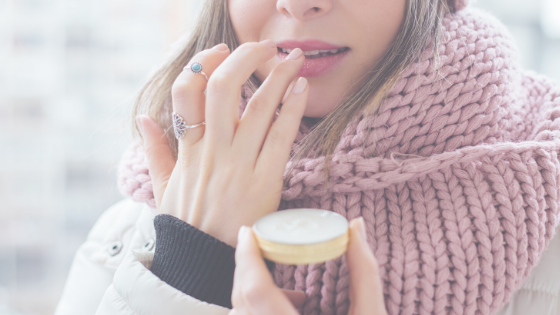
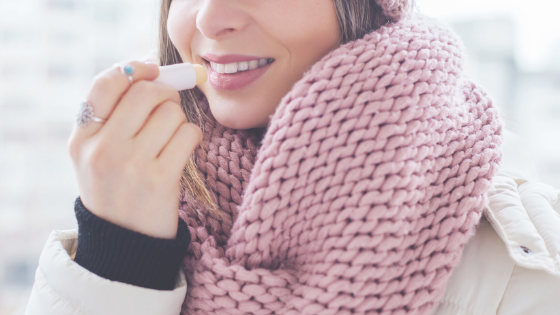
change file names, new post

diff --git a/themes/myskinin-blog/layouts/about/list.html b/themes/myskinin-blog/layouts/about/list.html
@@ -6,7 +6,7 @@
       <div class="col-lg-12">
         <h2 class="mb-4">{{.Title }}</h2>
         <img src="{{.Params.Image | absURL }}" alt="{{.Site.Params.author}}" class="img-fluid w-100 mb-4">
-        <h3 class="font-weight-light">Hello, I’m <span class="font-weight-bold">{{.Site.Params.author}}</span></h3>
+        <h3 class="font-weight-light">Hello, we are <span class="font-weight-bold">{{.Site.Params.author}}</span></h3>
         {{ .Content }}
       </div>
     </div>

diff --git a/content/dry-winter-lips.md b/content/dry-winter-lips.md
@@ -1,0 +1,60 @@
+---
+title: Dry Lips In Winter?
+date: 2019-05-14T08:46:10.000+00:00
+description: This is meta description
+type: featured
+image: images/featured-post/dry-winter-lips.png
+categories:
+- Lips
+tags:
+- Dry lips
+- chapped lips
+- winter lips
+
+---
+Dry winter lips are an inevitable companion to colder seasons. Knowing how to get rid of chapped lips will help you stay more comfortable in this weather. We’ve tested many of the diy remedies and products available on the market to discover some of the key things that will get your lips back into shape fast, including two key factors. Keep reading. 
+Knowing how to cure chapped lips fast is actually only half of the battle. Dry winter lips are only a symptom and it’s important to understand why do lips get dry. We will share all of this information with you so that you are well armed to tackle and even prevent the dryness, cracks and tightness on the lips that comes with cold weather. 
+
+<h2>Why do lips get dry?
+
+<div class="imgbox"> <img class="full-width" src='/images/featured-post/get-rid-of-chapped-lips-fast3.png' alt="why do lips get dry"> </div>
+
+Your lips don’t have oil glands so they don’t naturally lubricate themselves like the majority of the rest of the skin on your body. They are also almost always exposed to the elements because they are not covered by clothing, hair, etc. Wind and cold, dry air  that come with the winter months only make the exposure more damaging. 
+However, the good news is that of all the skin on your body, your lips have one of the highest cell turnover rates. That means that when the skin on your lips does get dry, chapped, damaged, etc., it is among the fastest to recover. 
+Therefore, our methods on how to get rid of dry winter lips should work quickly. 
+However, the ultimate takeaway here is that you need to nourish, protect and replenish your lips. 
+
+<h2>How to get rid of dry lips fast
+
+<div class="imgbox"> <img class="full-width" src='/images/featured-post/dry-winter-lips2.png' alt="dry winter lips"> </div>
+
+To get rid of dry lips fast, you will need a greasy lip balm that sticks to your lips. Balms containing ingredients like petroleum jelly, coconut oil, beeswax, almond oil and vitamin E tend to work well. Avoid ingredients that can irritate sensitive skin such as: eucalyptus oil, camphor and menthol.
+
+If possible, try to check the texture of the balm before purchasing it. If it disappears quickly, is runny and doesn’t have much stickiness to it, it won’t be enough to help with dry winter lips. 
+Our favourite is [Lanolips Original Ointment](https://amzn.to/36ZmlWh). It’s so moisturizing that even bleeding, cracked lips felt instantly soothed. It’s sticking power meant that we didn’t need to apply it to often. [Weleda’s Skin Food Lip Butter](https://amzn.to/33JnS0u) not only provided intensive nourishment for our dry winter lips, but it also created a barrier to protect them from the elements until they healed properly. 
+
+<h2> Consistency is key
+
+<div class="imgbox"> <img class="full-width" src='/images/featured-post/get-rid-of-chapped-lips-fast2.png' alt="how to get rid of chapped lips"> </div>
+
+Because consistent application is one of the most important things when it comes to  We recommend getting a couple of tubes of your favourite lip balm to keep with you all the time. Originally, we kept our lip balm in our handbag and would get too lazy to get it out to apply. We started keeping it in our pocket, but then that meant changing pockets and/or losing the balm altogether. So now we keep a couple around to ensure that we always have a layer of balm on our dry winter lips. 
+
+<h2> Rescue Lip Scrub
+
+A lip scrub sloughs dry, dead skin of your lips, but it must be used with caution on dry winter lips.
+
+If your lips are bleeding or cracked, do not use a lip scrub. Otherwise, we recommend a gentle scrub from non acidic ingredients. So you don’t want salt, sugar or any acidic scrub. For dry winter lips, use only a scrub where the scrub agents are made of natural ingredients such as walnuts, cornmeal, etc. The reason for this is that you want to gently encourage the dry, dead skin to come off your lips, but you don’t want to dry them or aggravate them further with acidic ingredients. We love [Baxter’s Cornmeal and Walnut Scrub](https://amzn.to/2QiUYjX) because it gently removed the dry, dead skin from our lips and did not aggravate them. While it’s intended to be used as a face scrub, we use it only as a lip scrub. 
+
+<h2>Overnight lip mask
+
+<div class="imgbox"> <img class="full-width" src='/images/featured-post/get-rid-of-chapped-lips-fast.png' alt="how to cure dry winte lips"> </div>
+
+Our bodies repair themselves more at night and our lips are no exception. So why not take advantage of this time when our bodies reparative powers are amplified and put an intensive mask on your lips before bed time? A couple of nights with a lip mask made a big difference for us.
+
+Some of our team still use butter on our dry lips before bedtime. But somehow, the taste of butter is less appealing and there are more powerful remedies out there. The best sleep mask we have found is an old classic by Laneige - [Lip Berry Sleep Mask](https://amzn.to/2NOMXkY). It goes on quick thick, but when you wake up, you get more dewy, softer and less chapped lips. It also has a nice applicator, which is much more hygenic. 
+
+<h2>Avoid at all costs
+
+<div class="imgbox"> <img class="full-width" src='/images/featured-post/get-rid-of-chapped-lips-fast4.png' alt="how to get rid of chapped lips"> </div>
+
+As tempting as it may be to peel the drier skin off your lips, avoid it all costs. This will only perpetuate the cycle. Avoid touching your lips and avoid using a potted lip balm. Use one in a tube in a stick form. Potted lip balms, particularly the kind where you have to use your finger, accumulate dirt and bacteria very quickly. In fact, they become a breeding ground for it with skin cells, germs, etc. 

diff --git a/content/How-to-use-body-scrub.md b/content/How-to-use-body-scrub.md
@@ -24,13 +24,13 @@ The key to understanding how to use an exfoliating body scrub effectively is cho
 
 > The key to using body scrub is preparing your skin. The main idea is to soften the surface of your skin so that the body scrub can achieve maximum sloughing of dead skin cells. Preparation can be done in a number of ways and depends on the amount of time you have and how much you want to fuss with it. We will give you a couple of options.
 
-![How to use a body scrub - preparing your skin](../images/body-scrub/How-to-use-a-body-scrub2.png "How to prepare your skin for a body scrub")
+<div class="imgbox"> <img class="full-width" src='/images/body-scrub/How-to-use-a-body-scrub2.png' alt="how to use a body scrub"> </div>
 
 <h3> Option 1 - How to apply a body scrub when you have more time and want a spa experience at home
 
 This option should take around 30 minutes, but you can also adjust the time to suit your needs. 
 
-![How to apply a body scrub like a spa](../images/body-scrub/How-to-use-a-body-scrub3.png "How to apply a body scrub like a spa")
+<div class="imgbox"> <img class="full-width" src='/images/body-scrub/How-to-use-a-body-scrub3.png' alt="how to apply a body scrub"> </div>
 
 Ideally, you would be able to steam your skin at a sauna. However, a sauna can be easily replicated at home by running the shower on a hot setting for about 5 minutes. Always point the hot water away from yourself. Depending on the size of your bathroom, it should start to fill up with steam fairly quickly. If you have a cabin shower, you can step inside and put the water on as hot as you can without burning yourself. Again, direct the water away from yourself and be very careful to avoid burns. Your skin should not get wet. It’s about steaming. Make sure the ventilation is off and that the main door and windows are shut.  If at any time you start to feel dizzy or unwell, immediately open the main door, windows, etc. to let the steam out. Always keep a bottle of cold water nearby and sip it while the steam is coming and during the steaming process.
 
@@ -42,9 +42,9 @@ Finally, follow all steps from Option 2 (below). By the time you finish, you wil
 
 <h3>Option 2: How to apply a body scrub when you have a few minutes
 
-This option is really the bare minimum that should be done for body scrub application. It should take 5-10 minutes. 
+This option is really the bare minimum that should be done for body scrub application. It should take 5-10 minutes.
 
-![How to use a body scrub quickly](../images/body-scrub/How-to-use-a-body-scrub4.png "How to apply a body scrub quickly")
+<div class="imgbox"> <img class="full-width" src='/images/body-scrub/How-to-use-a-body-scrub4.png' alt="how to use a body scrub"> </div>
 
 While standing in the shower/bath and BEFORE you turn on the water, run shower oil all over your skin. It is absolutely imperative that you do this before you get your skin wet because the oil will stick to your skin better and will have a fantastic softening effect.  Spread the oil generously and be sure to cover every part that you want exfoliated, especially tougher areas like your elbows and palms. If you are also exfoliating your feet, it is advisable to use a shower stool or to sit on the floor of your shower/bathtub. Be very careful not to slip - oil is slippery.  It's best to use a shower oil (as opposed to a beauty oil) because they will rinse much easier when it’s time to wash everything off. We love [Rituals Rose and Almond Oil](https://www.amazon.co.uk/RITUALS-Rituals-Ayurveda-Shower-200ml/dp/B07P6Q42R3/ref=asc_df_B07P6Q42R3/?tag=googshopuk-21&linkCode=df0&hvadid=218158311983&hvpos=1o4&hvnetw=g&hvrand=2334297160444525157&hvpone=&hvptwo=&hvqmt=&hvdev=c&hvdvcmdl=&hvlocint=&hvlocphy=9045999&hvtargid=pla-761829966453&psc=1&th=1&psc=1).. The scent is absolutely divine and our skin was softer than ever before. It also has the right balance of slipperiness and sticks to your skin well enough for the next step.
 
@@ -60,11 +60,11 @@ Now that you know how to use your body scrub properly, we’d like to show you h
 
 Warmer weather calls for light moisturisers and a deeper cleansing body wash that will de-gunk your pores after sweat.
 
-Humidity is your friend when it comes to keeping your skin supply and making the effects of your body scrub last. The only downside of it is that smog and gunk tends to stick to your skin. Fear not! We recommend [dry brushing](https://www.elle.com/uk/beauty/body-and-physical-health/a36493/dry-body-brushing-health-benefits/)(putting a bit of body oil on the brush beforehand makes magic!) or using a good loofah.
+Humidity is your friend when it comes to keeping your skin supply and making the effects of your body scrub last. The only downside of it is that smog and gunk tends to stick to your skin. Fear not! We recommend [dry brushing](https://www.elle.com/uk/beauty/body-and-physical-health/a36493/dry-body-brushing-health-benefits/) (putting a bit of body oil on the brush beforehand makes magic!) or using a good loofah.
 
 Heading 2: What’s the best body scrub?
 
-![](../images/body-scrub/How-to-use-a-body-scrub5.png)
+<div class="imgbox"> <img class="full-width" src='/images/body-scrub/How-to-use-a-body-scrub5.png' alt="how to use a body scrub"> </div>
 
 The best body scrub is the one that is most appropriate for your skin type. The grain size of the body scrub should parallel your skin. The finer and more delicate your skin, the finer and more delicate the body scrub. Do a patch test before purchasing and if the body scrub feels painful,  like it’s pulling at your skin or leaves a lasting redness, do not buy it. Using a scrub that is too coarse can lead to micro scarring and make your skin rougher in the long term. It is better to use as fine of a grain as possible, yet still effective on your skin. It should feel like a tiny, pleasant massage. (Later in this guide we show you the trick spa’s use to get the most out of these tiny grains. Please keep reading.)
 
